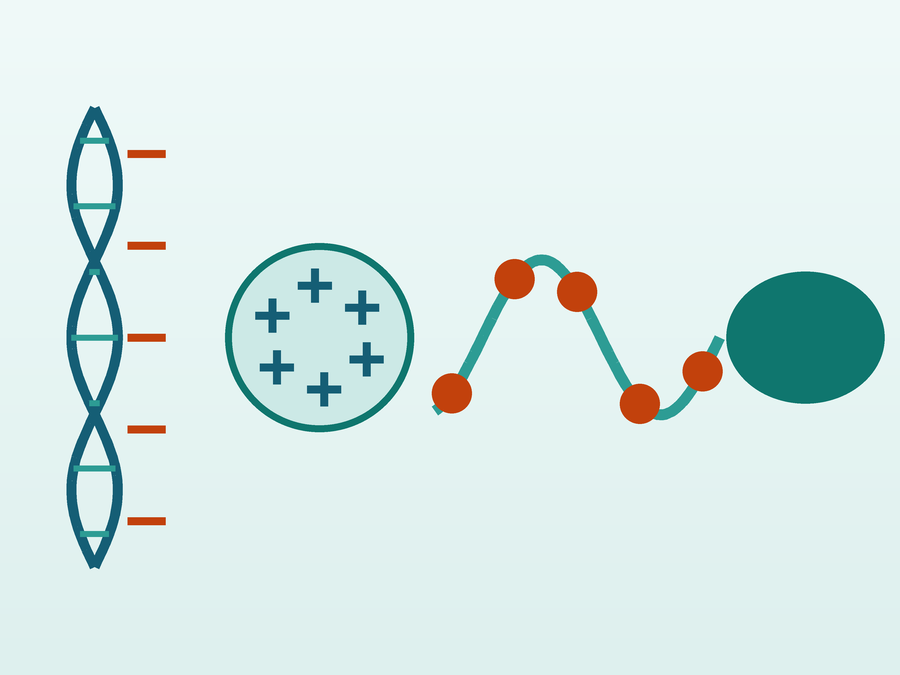
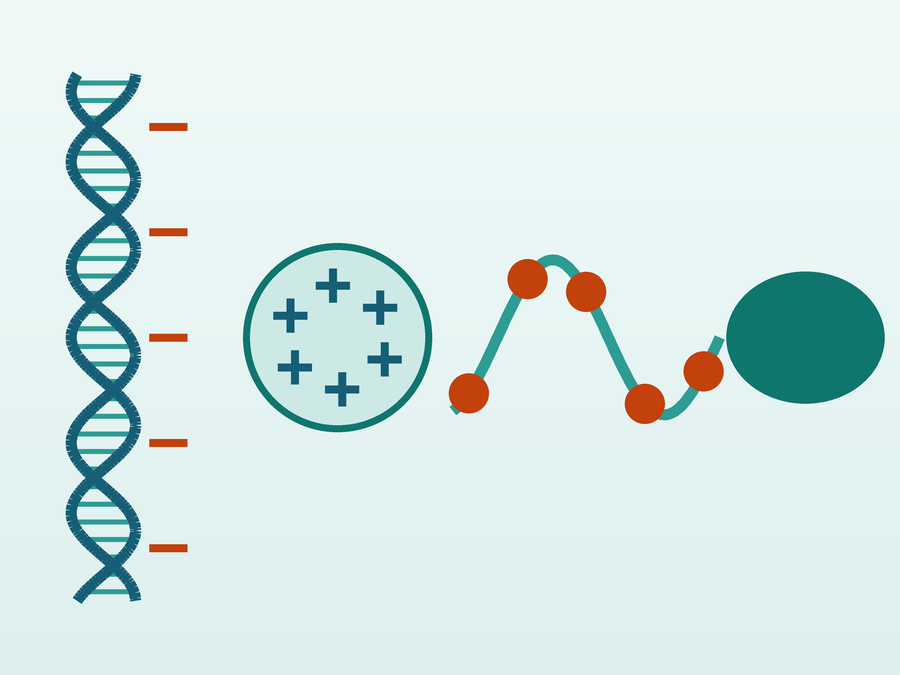
Correct research figures; add lab scenes to research pages (#43)
* Nav/footer restructure, bigger team photos, 2-col news, Resources rebuild, sitewide type sizing

- Header: drop Contact button and dark-mode toggle, lower the text-menu
  breakpoint from lg to md so most windows show the full menu; both moved
  to the footer instead
- People page: bigger circular photos (~3 across), drop interests tags
  from David's card only, swap David's avatar for the newly uploaded photo
- News page: 2-column grid
- Add news post for the GNMT N-terminus paper's JBC publication and update
  the History timeline entry to match
- Resources page: add a Publications-style jump nav, replace the modal 3D
  viewer with new-tab Mol*/RCSB/EMDB links, add a direct publication link
  under each structure/map card
- Override the shared markdown block template (used by nearly every plain
  prose section site-wide) to a smaller, more consistent text size

Claude-Session: https://claude.ai/code/session_01NuFSWVmeTMhMFaAHazW6f5

* People ordering/sizing fix, Lab Life reorganization, Resources equipment section, orange S favicon

- Give every current lab member an explicit seniority weight (previously
  only David and Subray had one, so the rest fell back to alphabetical
  sort) and bump the team grid to 4 columns with smaller photos to match
- Lab Life: move the Fun & Social gallery above the Lab Photos section,
  add a year to each social-photo caption, convert the four intro lab
  photos into the same lightbox-thumbnail gallery style, add a jump nav,
[…]

Changed region(s): [[0.2489, 0.3422, 0.7778, 0.6533], [0.0622, 0.0933, 0.2178, 0.9022]]

diff --git a/content/research/_index.md b/content/research/_index.md
@@ -9,11 +9,25 @@ sections:
       text: |
         Decoding how protein modifications regulate chromatin and RNA to control gene expression in cancer, ALS, and aging.
 
+        <figure class="fig-side">
+          <a href="/media/lab/gallery/gallery-david-haeun-subray.jpg" target="_blank" rel="noopener">
+            <img src="/media/lab/gallery/gallery-david-haeun-subray.jpg" alt="David Shechter, Haeun Kim and Subray Hegde at the bench in Forchheimer 304">
+          </a>
+          <figcaption>At the bench in Forchheimer 304.</figcaption>
+        </figure>
+
         The Shechter Lab studies how chemical modifications of proteins regulate gene expression by coordinating chromatin dynamics, transcription, and RNA processing. We are driven by curiosity about fundamental molecular mechanisms, and we look for principles that connect those mechanisms to disease — cancer, aging, and neurodegeneration.
 
         Our work centers on post-translational modifications — arginine methylation and glutamylation, especially — that change the behavior of intrinsically disordered regions in RNA-binding proteins and chromatin regulators. These modifications reshape protein-protein and protein-RNA interactions, with consequences for transcription, RNA metabolism, and the biomolecular condensates cells build from these interactions.
 
         We have long studied **PRMT1** and **PRMT5**, arginine methyltransferases that regulate RNA-binding protein function and RNA processing events including splicing and nuclear export. In C9orf72 ALS, we are investigating how arginine methylation governs stress granules, phase-separated condensates, and nucleocytoplasmic transport — and whether PRMTs can be targeted therapeutically. In parallel, we are defining nuclear roles for TTLL4-mediated glutamylation of acidic chromatin-associated proteins, including the histone chaperones that go on to drive oncogenic transcriptional programs in NPM1c-mutant acute myeloid leukemia. We are also examining glycine N-methyltransferase (GNMT), which connects one-carbon metabolism to gene regulation, with implications for aging and the metabolic control of epigenetic pathways.
+
+        <figure class="fig-side fig-left">
+          <a href="/media/lab/lab-tissue-culture.jpg" target="_blank" rel="noopener">
+            <img src="/media/lab/lab-tissue-culture.jpg" alt="Tissue culture room in the Shechter Lab">
+          </a>
+          <figcaption>Tissue culture, Forchheimer 304B.</figcaption>
+        </figure>
 
         Using biochemistry, structural biology, functional genomics, and cellular models, we aim to define how these regulatory systems operate — and how their dysregulation creates vulnerabilities that can be leveraged for therapeutic discovery.
 

diff --git a/content/research/arginine-methylation.md b/content/research/arginine-methylation.md
@@ -19,9 +19,9 @@ Much of our recent work grew out of a puzzle about PRMT5 inhibitors, which are i
 
 <figure class="fig-side fig-left">
   <a href="/media/research/histone-supply-fork.png" target="_blank" rel="noopener">
-    <img src="/media/research/histone-supply-fork.png" alt="A replication fork where one daughter strand receives methylated new nucleosomes and the other runs short, leaving unpackaged gaps">
+    <img src="/media/research/histone-supply-fork.png" alt="A pool of newly made, methylated histones feeding a replication fork whose two daughter duplexes are packaged into nucleosomes">
   </a>
-  <figcaption>At the replication fork, methylated new histones are packaged onto daughter DNA. Lose that step and the supply runs short mid-replication.</figcaption>
+  <figcaption>PRMT5 methylation of newly made histone H4 sustains histone production through S phase, supplying the chromatin assembled behind the fork.</figcaption>
 </figure>
 
 A second thread connects PRMT5 to the supply of histones themselves. Methylation of newly made histone H4 by PRMT5 is required to sustain histone production during S phase — lose it, and cells run short of histones mid-replication, with replication stress and genome instability as the consequence.

diff --git a/content/research/aml.md b/content/research/aml.md
@@ -15,6 +15,13 @@ image:
 
 NPM1-mutant AML, the most common genetic subtype of acute myeloid leukemia, is driven by a mutant form of the histone chaperone NPM1 that mislocalizes to the cytoplasm (NPM1c). We found that the **TTLL4 glutamyltransferase** modifies NPM1c and related proteins, changing how they associate with chromatin and rewiring the leukemic transcriptional program — which makes TTLL4 a therapeutic target we're now going after directly.
 
+<figure class="fig-side fig-left">
+  <a href="/media/lab/gallery/gallery-subray-isaac.jpg" target="_blank" rel="noopener">
+    <img src="/media/lab/gallery/gallery-subray-isaac.jpg" alt="Subray Hegde and Isaac Kraz working in the lab">
+  </a>
+  <figcaption>Subray Hegde and Isaac Kraz in the lab.</figcaption>
+</figure>
+
 This grew out of our basic biochemistry on glutamylation and histone chaperones (see [Glutamylation, Histone Chaperones, and Disordered Regions →](/research/glutamylation-chaperones)), and we're pursuing it with the [Gritsman](https://www.gritsmanlab.com/) and [Kitamura](https://www.skitalab.com/) labs at Einstein.
 
 **Questions we are pursuing:**

diff --git a/content/research/aging.md b/content/research/aging.md
@@ -17,6 +17,13 @@ GNMT is the liver's main valve for the cellular methyl economy, and with the Huf
 
 We've shown that GNMT's N-terminal tail and its folate-dependent feedback inhibition set S-adenosylmethionine (SAM) homeostasis (see [PRMTs, GNMT, and Methylation in Gene Regulation and RNA Processing →](/research/arginine-methylation)). Sarcosine, the direct product of the GNMT reaction, is itself modulated by aging and dietary restriction — one of the threads that got us interested in GNMT as an aging target in the first place. The Hevolution Foundation supports this work.
 
+<figure class="fig-side fig-left">
+  <a href="/media/lab/gallery/gallery-david-subray-joe.jpg" target="_blank" rel="noopener">
+    <img src="/media/lab/gallery/gallery-david-subray-joe.jpg" alt="David Shechter, Subray Hegde and Joseph DeAngelo in the lab">
+  </a>
+  <figcaption>Discussing results in the lab.</figcaption>
+</figure>
+
 **Questions we are pursuing:**
 
 - Where in the methyl economy is intervention both tolerable and biologically consequential for aging?
